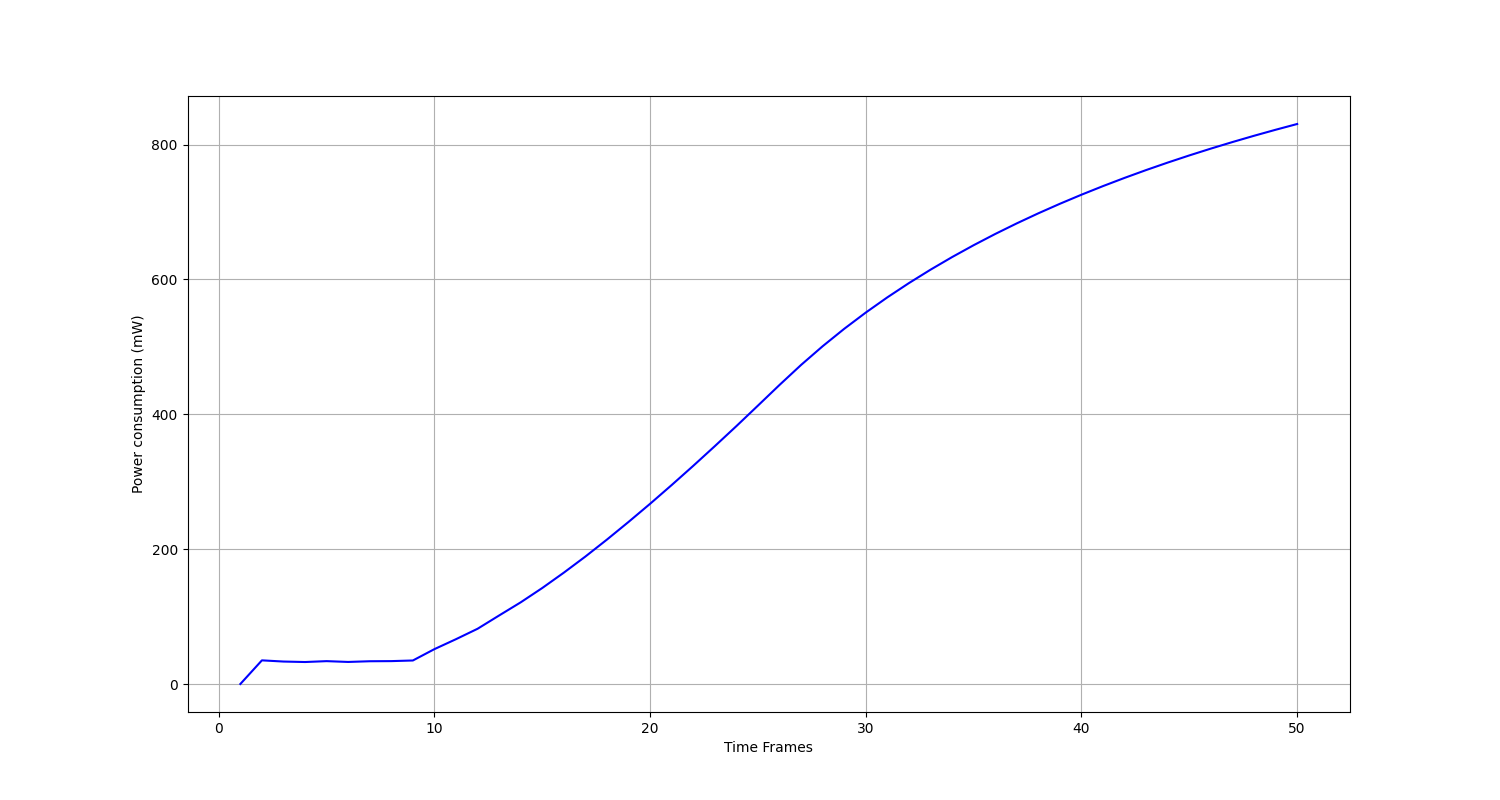
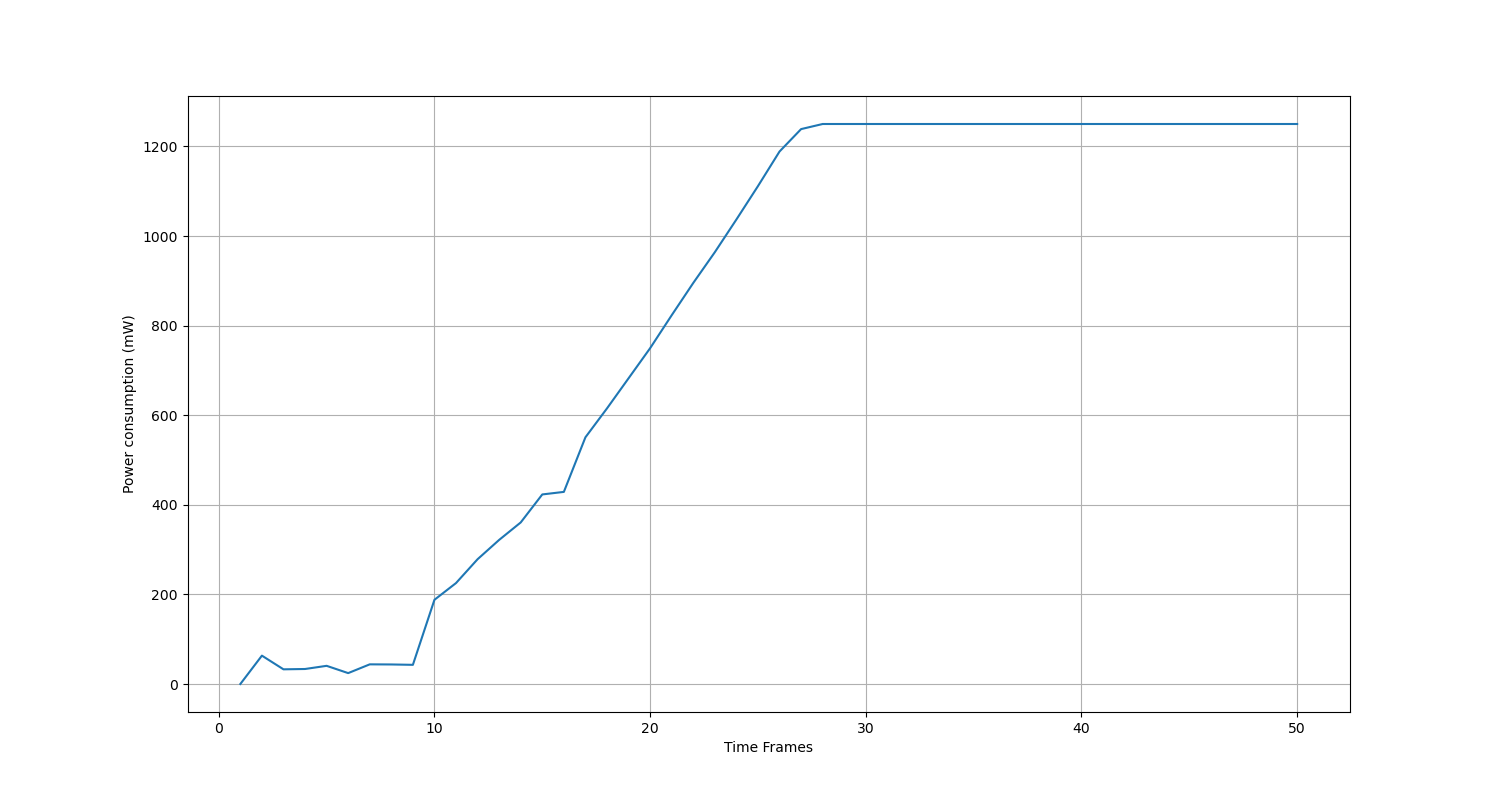
update figure

diff --git a/LyDROOwithTF2conv.py b/LyDROOwithTF2conv.py
@@ -18,7 +18,7 @@ import numpy as np                         # import numpy
 from memoryTF2conv import MemoryDNN
 # from optimization import bisection
 from ResourceAllocation import Algo1_NUM
-from system_params import d_th, scale_delay, V
+from system_params import d_th, scale_delay, V, n
 from User import *
 
 
@@ -29,7 +29,7 @@ import time
 import os 
 
 def create_img_folder(): 
-    path = f'./V=1e{V},dth={d_th},lambda={lambda_param}/'
+    path = f'./V=1e{V},dth={d_th},lambda={lambda_param},n={n}/'
     os.makedirs(path, exist_ok=True)
     print(f"Directory {os.getcwd()}")
     return path 
@@ -46,11 +46,12 @@ def plot_rate( rate_his, rolling_intv = 50, ylabel='Normalized Computation Rate'
     # mpl.style.use('seaborn')
     fig, ax = plt.subplots(figsize=(15,8))
     plt.grid()
-    plt.plot(np.arange(len(rate_array))+1, rate_array)
-    # plt.plot(np.arange(len(rate_array))+1, np.hstack(df.rolling(rolling_intv, min_periods=1).mean().values), 'b')
-    # plt.fill_between(np.arange(len(rate_array))+1, np.hstack(df.rolling(rolling_intv, min_periods=1).min()[0].values), np.hstack(df.rolling(rolling_intv, min_periods=1).max()[0].values), color = 'b', alpha = 0.2)
+    plt.plot(np.arange(len(rate_array))+1, np.hstack(df.rolling(rolling_intv, min_periods=1).mean().values), 'b')
+    plt.fill_between(np.arange(len(rate_array))+1, np.hstack(df.rolling(rolling_intv, min_periods=1).min()[0].values), np.hstack(df.rolling(rolling_intv, min_periods=1).max()[0].values), color = 'b', alpha = 0.2)
+    plt.plot(np.arange(len(rate_array)), rate_array)
     plt.ylabel(ylabel)
     plt.xlabel('Time Frames')
+    plt.legend(['rooling', 'fill_between', 'rate'])
     plt.savefig(name)
     plt.show()
 
@@ -67,7 +68,7 @@ if __name__ == "__main__":
     V = 10**V
 
     N = 10                # number of users
-    n = 50              # number of time frames
+
     K = N                   # initialize K = N
 
     arrival_lambda = lambda_param*np.ones((N)) # 1.5 Mbps per user

diff --git a/system_params.py b/system_params.py
@@ -3,13 +3,14 @@ from utils import *
 # System parameters
 N = 10 # number of users
 
-time = 120 # total simulation time
-delta = mini(100)
-T = int(time/delta) # number of TSs
+time = 300 # total simulation time
+delta = mini(100) 
 
+T = int(time/delta) # number of TSs
+n = T         # number of time frames
 W = 0.2*mega(1) # Bandwidth mhz
 R = kilo(1) # packet size kb
-V = 6 # Lyapunov 
+V = 5 # Lyapunov 
 
 # channel model 
 H_uav = 50 # high of uav 
@@ -25,16 +26,16 @@ sigma_gain = 2 # sqrt(var_gain)
 
 kappa = 1e-26 
 f_i_max = giga(0.5)
-f_u_max = giga(10)
+f_u_max = giga(20)
 
 psi = 0.1
 p_i_max = dBm(20)
-d_th = 3
+d_th = 5
 F = 500*R # CPU cycles / packet
 
 CHFACT = 10**12       # The factor for scaling channel value
 scale_delay = 50
-lambda_param = np.round(0.25*1e6/R)
+lambda_param = np.round(0.15*1e6/R)
 # the quantization mode could be 'OP' (Order-preserving) or 'KNN' or 'OPN' (Order-Preserving with noise)
 decoder_mode = 'OPN'
 Memory = 1024          # capacity of memory structure
